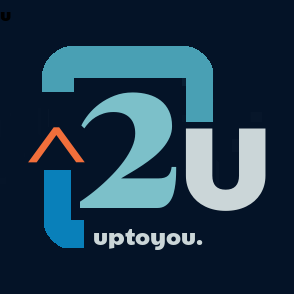
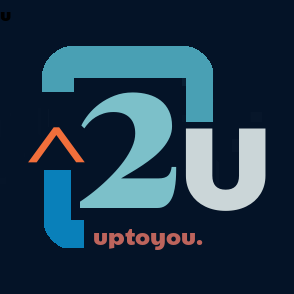
polish

Changed region(s): [[0.3061, 0.7653, 0.7041, 0.8571]]

diff --git a/client/src/App.js b/client/src/App.js
@@ -11,7 +11,7 @@ import Foodpage from "./pages/food/Foodpage";
 import Activitypage from "./pages/activity/Activitypage";
 import store from './store';
 import NoMatch from './pages/nomatch/NoMatch';
-import logo from './images/up2logo.png' // relative path to image 
+import logo from './images/Uptoyou_v1.5.png' // relative path to image 
 require("dotenv").config();
 
 class App extends Component {
